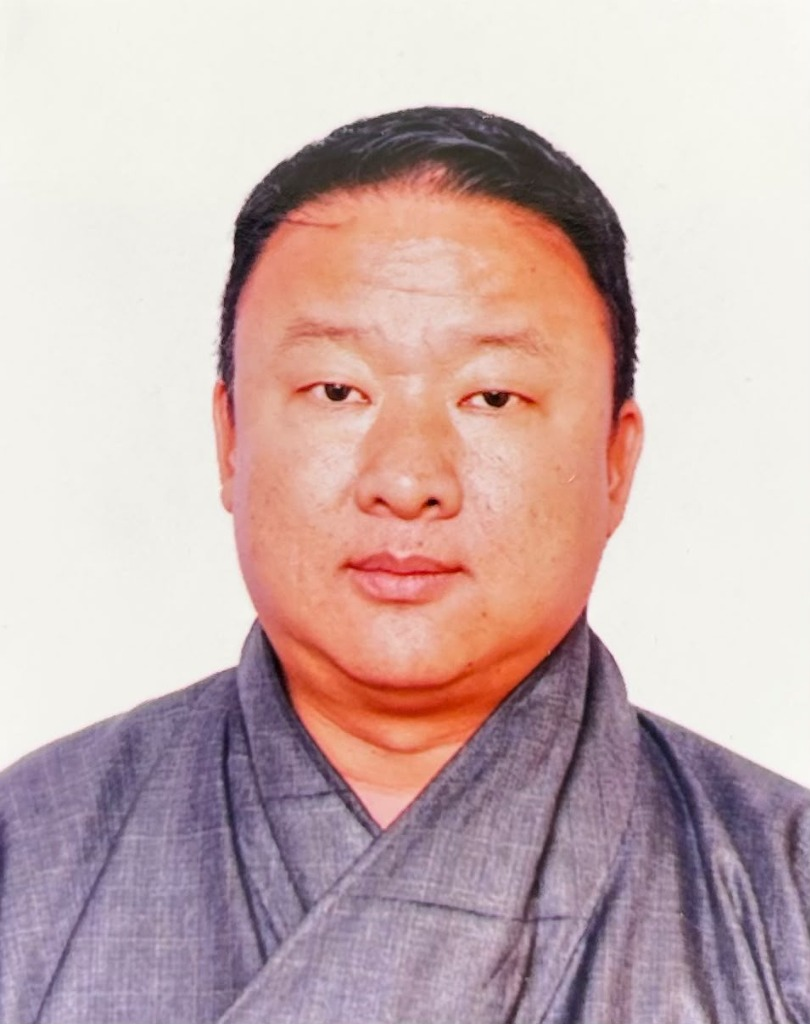
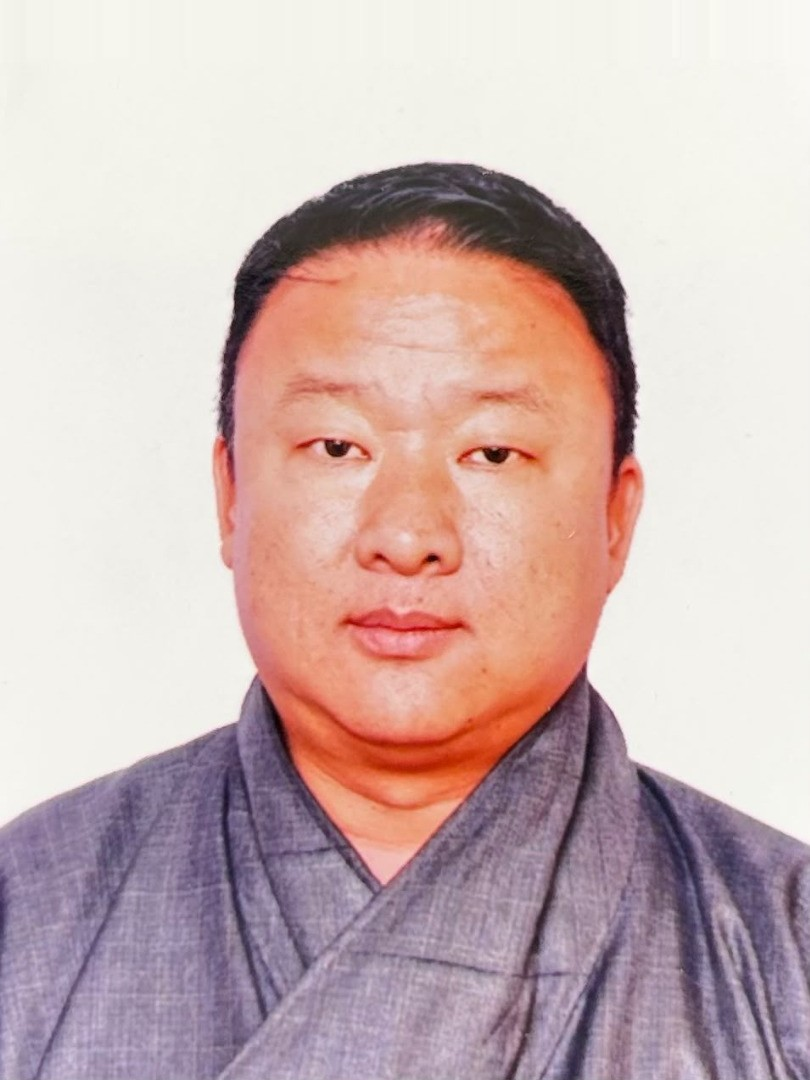
feat: perfect Thinley Wangchuk portrait centering, synchronize 9 official milestones, update medicine rank 8 to Ranitidine, and seed milestone records

Changed region(s): [[0.0, 0.0938, 1.0, 0.9688], [0.1852, 0.75, 0.216, 0.7812], [0.0617, 0.9062, 0.0926, 0.9375]]

diff --git a/src/routes/about.tsx b/src/routes/about.tsx
@@ -192,29 +192,49 @@ const trustees: {
 
 const milestones = [
   {
-    year: "1998",
-    title: "Conception in Geneva (WHO World Health Assembly)",
-    desc: "The Royal Government of Bhutan formally announced the vision of an autonomous health endowment fund to international partners in Geneva.",
+    year: "1998 — 12 May",
+    title: "Conception & Geneva Launch at 51st World Health Assembly",
+    desc: "The vision of the Bhutan Health Trust Fund was formally launched to the international public health community at the 51st World Health Assembly in Geneva, Switzerland, under the visionary guidance of His Majesty the Fourth Druk Gyalpo and led by Lyonpo Sangay Ngedup.",
+  },
+  {
+    year: "2000 — 3 August",
+    title: "Royal Charter Enactment & Secretariat Establishment",
+    desc: "His Majesty the Fourth Druk Gyalpo Jigme Singye Wangchuck granted the historic Royal Charter on 3rd August 2000, formally establishing the BHTF Secretariat and ring-fencing the capital endowment to guarantee uninterrupted financing for primary healthcare in perpetuity.",
   },
   {
     year: "2003",
-    title: "Royal Charter & Statutory Establishment",
-    desc: "Enacted under Royal Charter as a permanent statutory trust fund with ring-fenced capital grants from RGOB and bilateral partners.",
+    title: "Operational Primary Healthcare Financing Commences",
+    desc: "The Trust Fund commenced direct disbursements to finance essential primary healthcare needs, providing sustained funding for basic medical supplies, clinical consumables, and cold-chain infrastructure across all 20 Dzongkhags.",
   },
   {
-    year: "2014",
-    title: "1:1 Matching Grant Policy Institutionalized",
-    desc: "The Royal Government of Bhutan legislated to match every Ngultrum contributed by the public and corporate donors.",
+    year: "2006",
+    title: "100% Childhood Vaccines Financing & National Campaigns",
+    desc: "BHTF assumed complete sovereign financing responsibility for routine childhood immunization, supporting the nationwide Measles & Rubella campaign and fully financing the national Hepatitis B vaccination drive.",
   },
   {
-    year: "2020",
-    title: "Pandemic Emergency Vaccine Security",
-    desc: "BHTF mobilized emergency financing to guarantee uninterrupted essential drug buffers and pediatric vaccines across all 20 Dzongkhags during global supply shocks.",
+    year: "2014–2015",
+    title: "Health Contribution Transferred to BHTF & Drug Financing",
+    desc: "Management of the national 1% Health Contribution was transferred to BHTF, empowering the Fund to expand beyond vaccines to finance the entire national Essential Drugs List and 5-in-1 Pentavalent vaccine nationwide.",
+  },
+  {
+    year: "2017",
+    title: "Target US$ 24M Achieved & HPV Co-Financed with ACCF",
+    desc: "BHTF attained its founding endowment target of US$ 24.0 Million (Nu. 1.5 Billion+). Simultaneously launched nationwide HPV vaccination in partnership with the Australian Cervical Cancer Foundation (ACCF).",
+  },
+  {
+    year: "2018",
+    title: "Autonomous Statutory Delinking & Pentavalent with GAVI",
+    desc: "Delinked from the Ministry of Health to operate as an independent autonomous agency under Cabinet oversight; supported nationwide Pentavalent introduction with GAVI, and crossed the Nu. 3.0 Billion endowment milestone.",
+  },
+  {
+    year: "2019",
+    title: "Pneumococcal Conjugate Vaccine (PCV) & Influenza Funding",
+    desc: "Financing expanded to introduce Pneumococcal Conjugate Vaccine (PCV) protecting infants against fatal pneumonia/meningitis, alongside nationwide seasonal influenza protection for high-risk citizens and frontline workers.",
   },
   {
     year: "2026",
-    title: "Multi-Billion Sovereign Endowment & Diagnostic Expansion",
-    desc: "Endowment capital surpasses Nu. 3.24 Billion, expanding coverage to high-altitude solar cold chain logistics, oncology medicines, and automated hospital diagnostics.",
+    title: "26 Years of Service: Nu. 4.8B Endowment & Strategy Roadmap",
+    desc: "Marking 26 years of unbroken solidarity: capital endowment stands at Nu. 4,798,965,306.85 (~Nu. 4.8B), guaranteeing 438 essential modern medicines, 110 traditional medicines (65 core formulations), and 4 routine vaccines across 100% of health facilities.",
   },
 ];
 
@@ -305,7 +325,7 @@ function About() {
       : trustees;
 
   const displayMilestones =
-    liveMilestones.length > 0
+    liveMilestones.length >= 9
       ? liveMilestones.map((m) => ({
           year: m.year,
           title: m.title,

diff --git a/src/lib/db/init.ts b/src/lib/db/init.ts
@@ -403,6 +403,25 @@ export async function ensureDatabaseSchema() {
       `);
     }
 
+    // Seed official 9 historical milestones if empty or outdated (< 9 records)
+    const msCountCheck = await client.query("SELECT COUNT(*) FROM milestones");
+    if (parseInt(msCountCheck.rows[0].count, 10) < 9) {
+      await client.query(`
+        DELETE FROM milestones;
+        INSERT INTO milestones (year, title, description, order_index)
+        VALUES
+          ('1998 — 12 May', 'Conception & Geneva Launch at 51st World Health Assembly', 'The vision of the Bhutan Health Trust Fund was formally launched to the international public health community at the 51st World Health Assembly in Geneva, Switzerland, under the visionary guidance of His Majesty the Fourth Druk Gyalpo and led by Lyonpo Sangay Ngedup.', 1),
+          ('2000 — 3 August', 'Royal Charter Enactment & Secretariat Establishment', 'His Majesty the Fourth Druk Gyalpo Jigme Singye Wangchuck granted the historic Royal Charter on 3rd August 2000, formally establishing the BHTF Secretariat and ring-fencing the capital endowment to guarantee uninterrupted financing for primary healthcare in perpetuity.', 2),
+          ('2003', 'Operational Primary Healthcare Financing Commences', 'The Trust Fund commenced direct disbursements to finance essential primary healthcare needs, providing sustained funding for basic medical supplies, clinical consumables, and cold-chain infrastructure across all 20 Dzongkhags.', 3),
+          ('2006', '100% Childhood Vaccines Financing & National Campaigns', 'BHTF assumed complete sovereign financing responsibility for routine childhood immunization, supporting the nationwide Measles & Rubella campaign and fully financing the national Hepatitis B vaccination drive.', 4),
+          ('2014–2015', 'Health Contribution Transferred to BHTF & Drug Financing', 'Management of the national 1% Health Contribution was transferred to BHTF, empowering the Fund to expand beyond vaccines to finance the entire national Essential Drugs List and 5-in-1 Pentavalent vaccine nationwide.', 5),
+          ('2017', 'Target US$ 24M Achieved & HPV Co-Financed with ACCF', 'BHTF attained its founding endowment target of US$ 24.0 Million (Nu. 1.5 Billion+). Simultaneously launched nationwide HPV vaccination in partnership with the Australian Cervical Cancer Foundation (ACCF).', 6),
+          ('2018', 'Autonomous Statutory Delinking & Pentavalent with GAVI', 'Delinked from the Ministry of Health to operate as an independent autonomous agency under Cabinet oversight; supported nationwide Pentavalent introduction with GAVI, and crossed the Nu. 3.0 Billion endowment milestone.', 7),
+          ('2019', 'Pneumococcal Conjugate Vaccine (PCV) & Influenza Funding', 'Financing expanded to introduce Pneumococcal Conjugate Vaccine (PCV) protecting infants against fatal pneumonia/meningitis, alongside nationwide seasonal influenza protection for high-risk citizens and frontline workers.', 8),
+          ('2026', '26 Years of Service: Nu. 4.8B Endowment & Strategy Roadmap', 'Marking 26 years of unbroken solidarity: capital endowment stands at Nu. 4,798,965,306.85 (~Nu. 4.8B), guaranteeing 438 essential modern medicines, 110 traditional medicines (65 core formulations), and 4 routine vaccines across 100% of health facilities.', 9);
+      `);
+    }
+
     // Ensure all critical site settings are populated across all 6 categories
     await client.query(`
       INSERT INTO site_settings (setting_key, setting_value, category, description)

diff --git a/src/routes/our-work.tsx b/src/routes/our-work.tsx
@@ -566,7 +566,7 @@ export function OurWorkExperience({
                   { rank: "5", name: "Glipizide", desc: "Oral sulfonylurea antidiabetic therapy", cost: "Nu. 10,000,000" },
                   { rank: "6", name: "Immunosuppressant (Vitamin B & D)", desc: "Post-transplant immunosuppression & therapeutic vitamins", cost: "Nu. 9,000,000" },
                   { rank: "7", name: "Omeprazole", desc: "Proton-pump inhibitor for acid peptic disease", cost: "Nu. 9,000,000" },
-                  { rank: "8", name: "Gastrointestinal Formulations", desc: "Therapeutic gastrointestinal protectants & buffers", cost: "Nu. 8,000,000" },
+                  { rank: "8", name: "Ranitidine", desc: "Histamine H2 receptor antagonist for acid peptic disease", cost: "Nu. 8,000,000" },
                   { rank: "9", name: "Cetirizine", desc: "Second-generation antihistamine", cost: "Nu. 8,000,000" },
                   { rank: "10", name: "Vitamin C", desc: "Essential nutritional micronutrient supplementation", cost: "Nu. 8,000,000" },
                 ].map((med) => (

diff --git a/src/routes/about/secretariat.tsx b/src/routes/about/secretariat.tsx
@@ -357,7 +357,7 @@ function SecretariatPage() {
                 <img
                   src={staffThinley}
                   alt="Mr. Thinley Wangchuk"
-                  className="w-full h-full object-cover object-center hover:scale-105 transition-transform duration-500"
+                  className="w-full h-full object-cover object-top hover:scale-105 transition-transform duration-500"
                 />
               </div>
               <div className="p-5 space-y-1.5">

diff --git a/src/routes/our-story.tsx b/src/routes/our-story.tsx
@@ -133,7 +133,7 @@ function OurStoryPage() {
   }, []);
 
   const milestonesToRender =
-    liveMilestones.length > 0
+    liveMilestones.length >= 9
       ? liveMilestones.map((m) => ({
           year: m.year,
           title: m.title,
